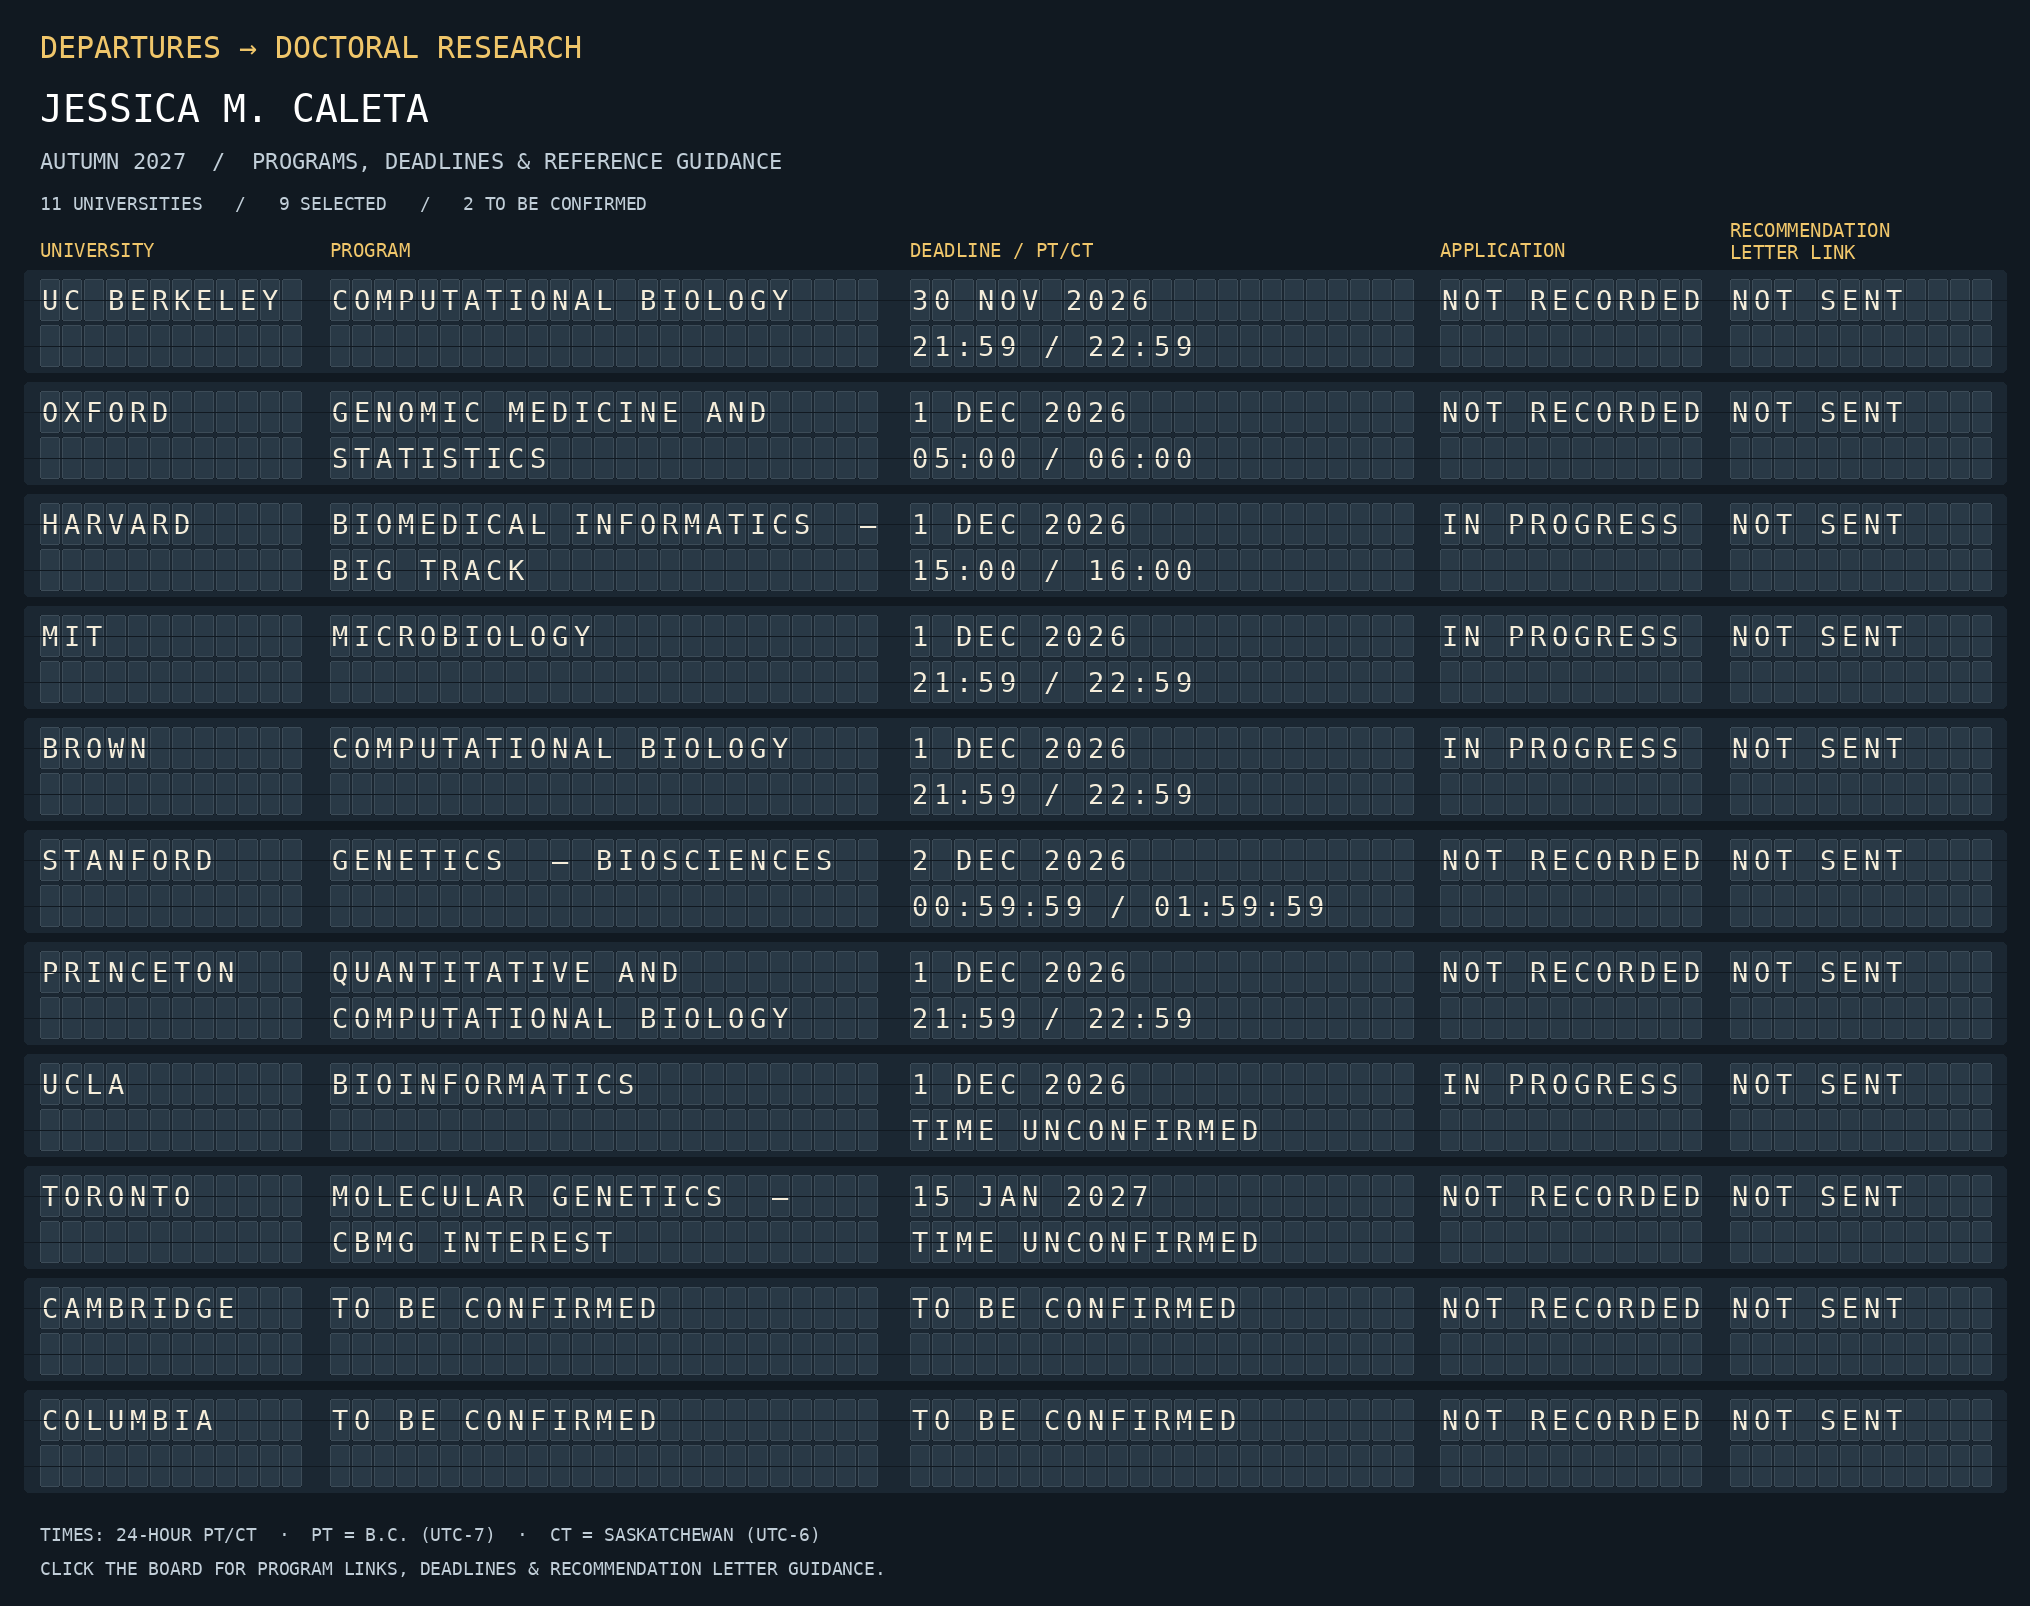
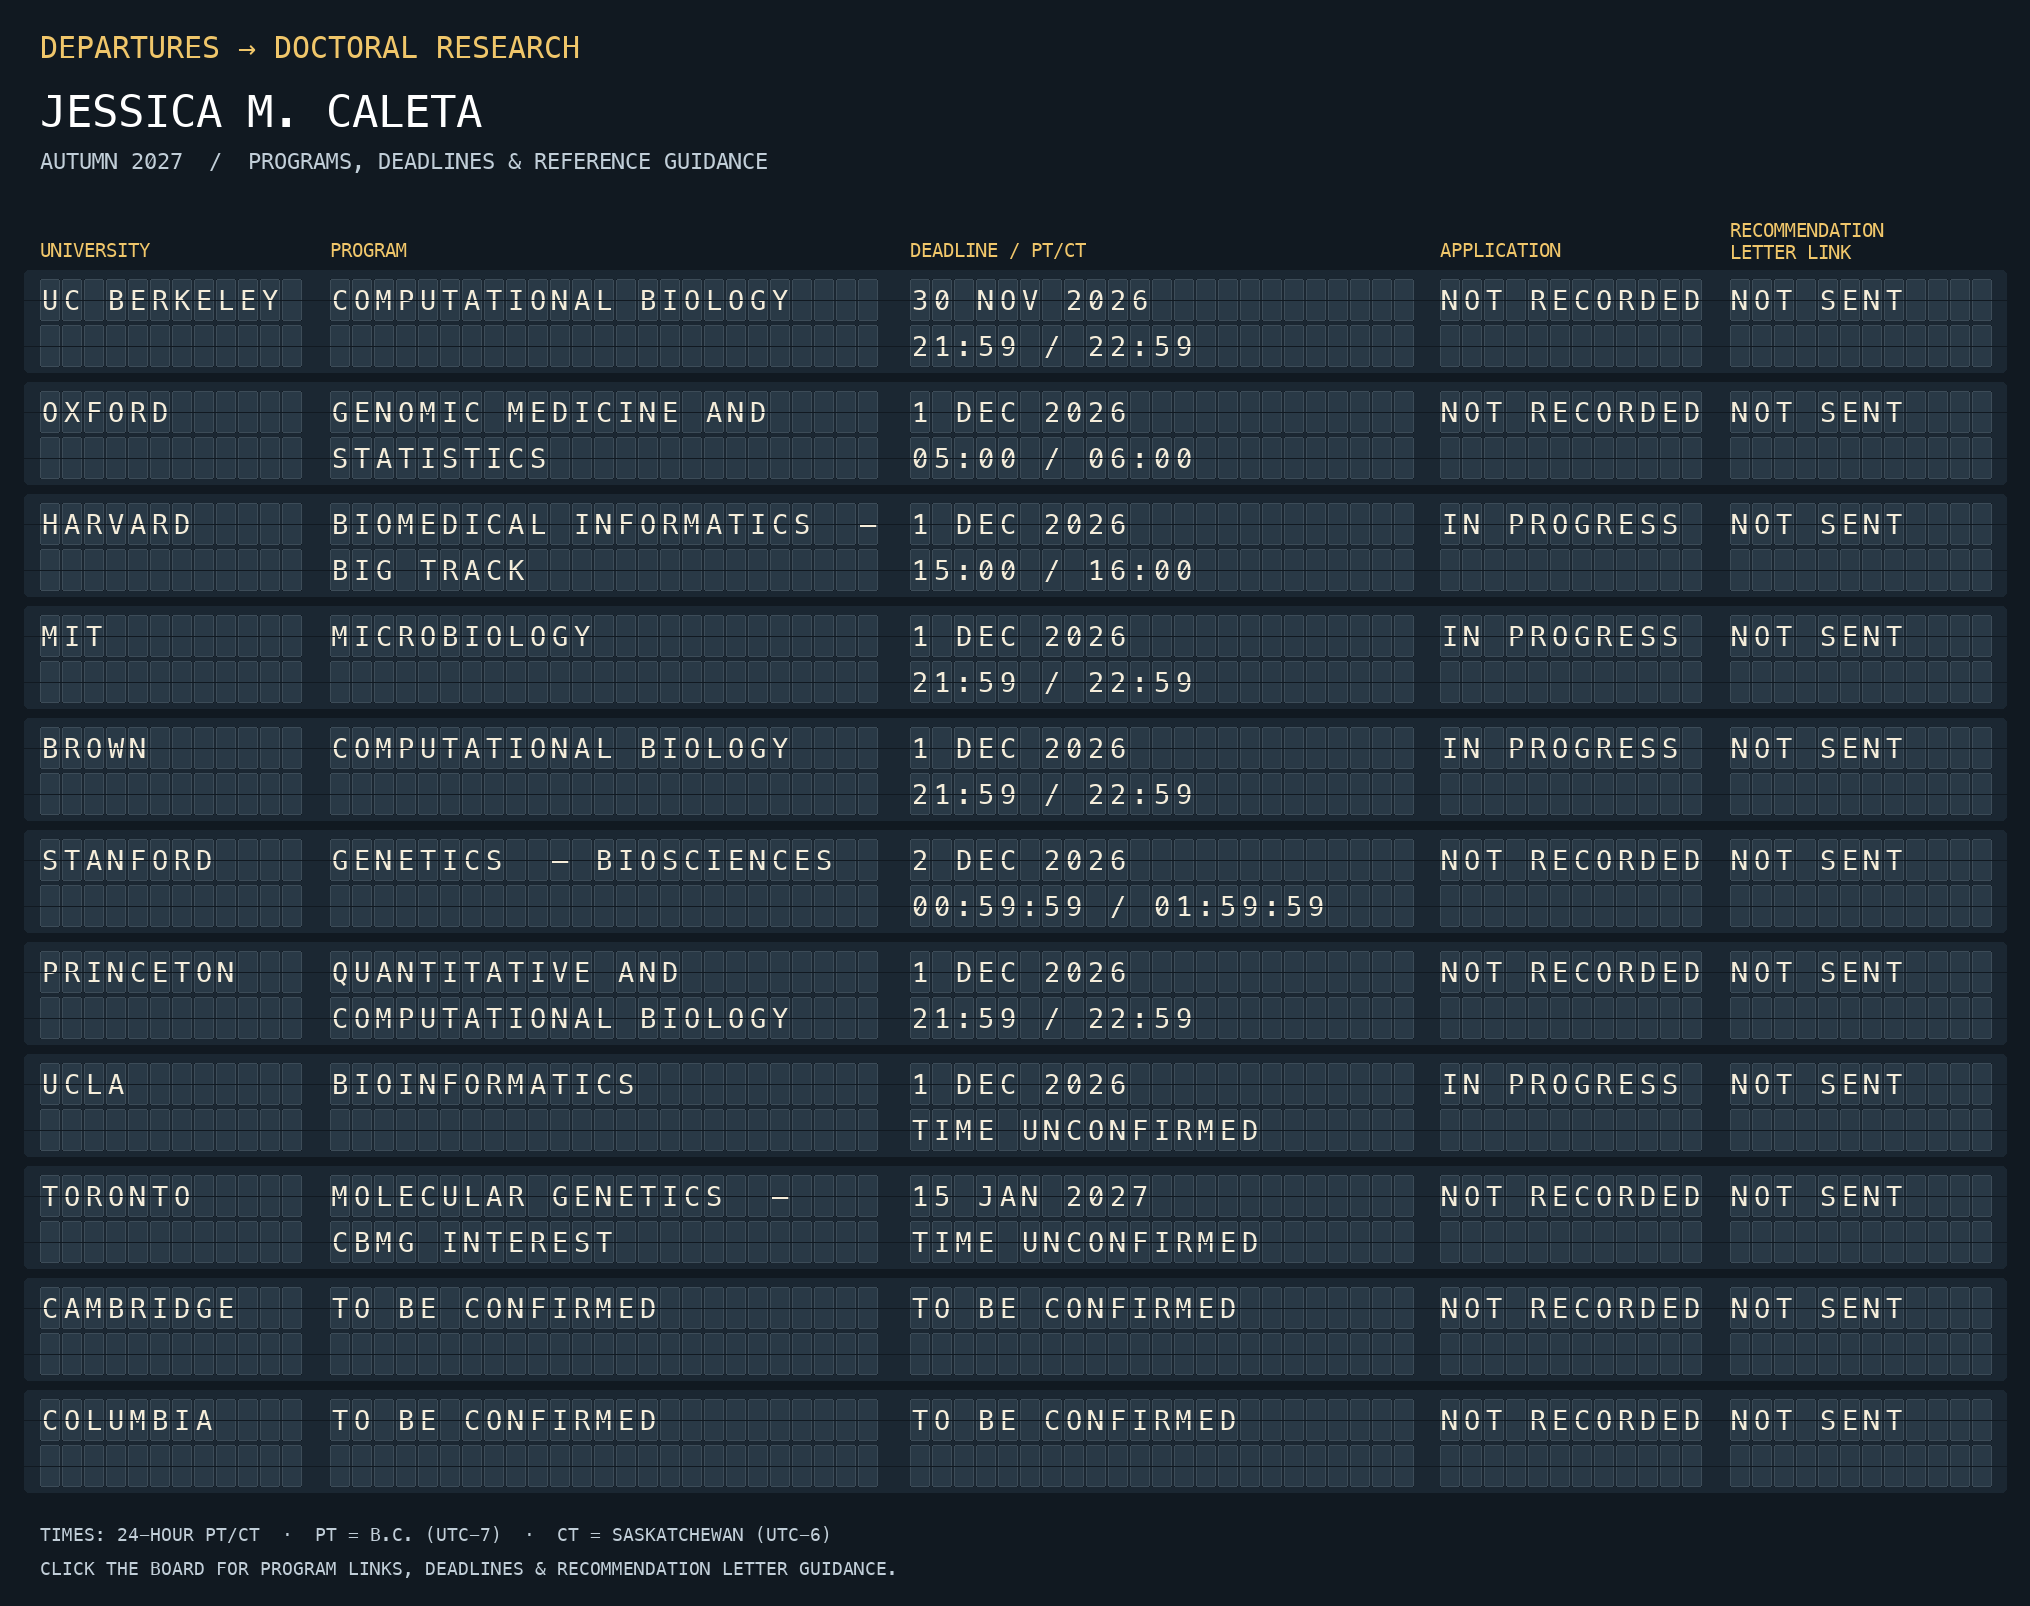
Emphasize name and remove program counts from board header

diff --git a/scripts/render_animation.py b/scripts/render_animation.py
@@ -28,10 +28,8 @@ base=Image.new('RGB',(W,H),'#111921');d=ImageDraw.Draw(base)
 def label(x,y,t,size=20,color='#c1ced8'):
     d.text((x,y),t,font=font(size),fill=color)
 label(40,30,'DEPARTURES → DOCTORAL RESEARCH',30,'#f0c66a')
-label(40,86,'JESSICA M. CALETA',38,'#ffffff')
+label(40,86,'JESSICA M. CALETA',44,'#ffffff')
 label(40,148,'AUTUMN 2027  /  PROGRAMS, DEADLINES & REFERENCE GUIDANCE',22)
-pending=sum(r[1]=='TBD' for r in rows)
-label(40,193,f'{len(rows)} UNIVERSITIES   /   {len(rows)-pending} SELECTED   /   {pending} TO BE CONFIRMED',18)
 for (kind,x,n),name in zip(COLS,['UNIVERSITY','PROGRAM','DEADLINE / PT/CT','APPLICATION','RECOMMENDATION']):
     if kind=='links':
         label(x,219,name,19,'#f0c66a')
